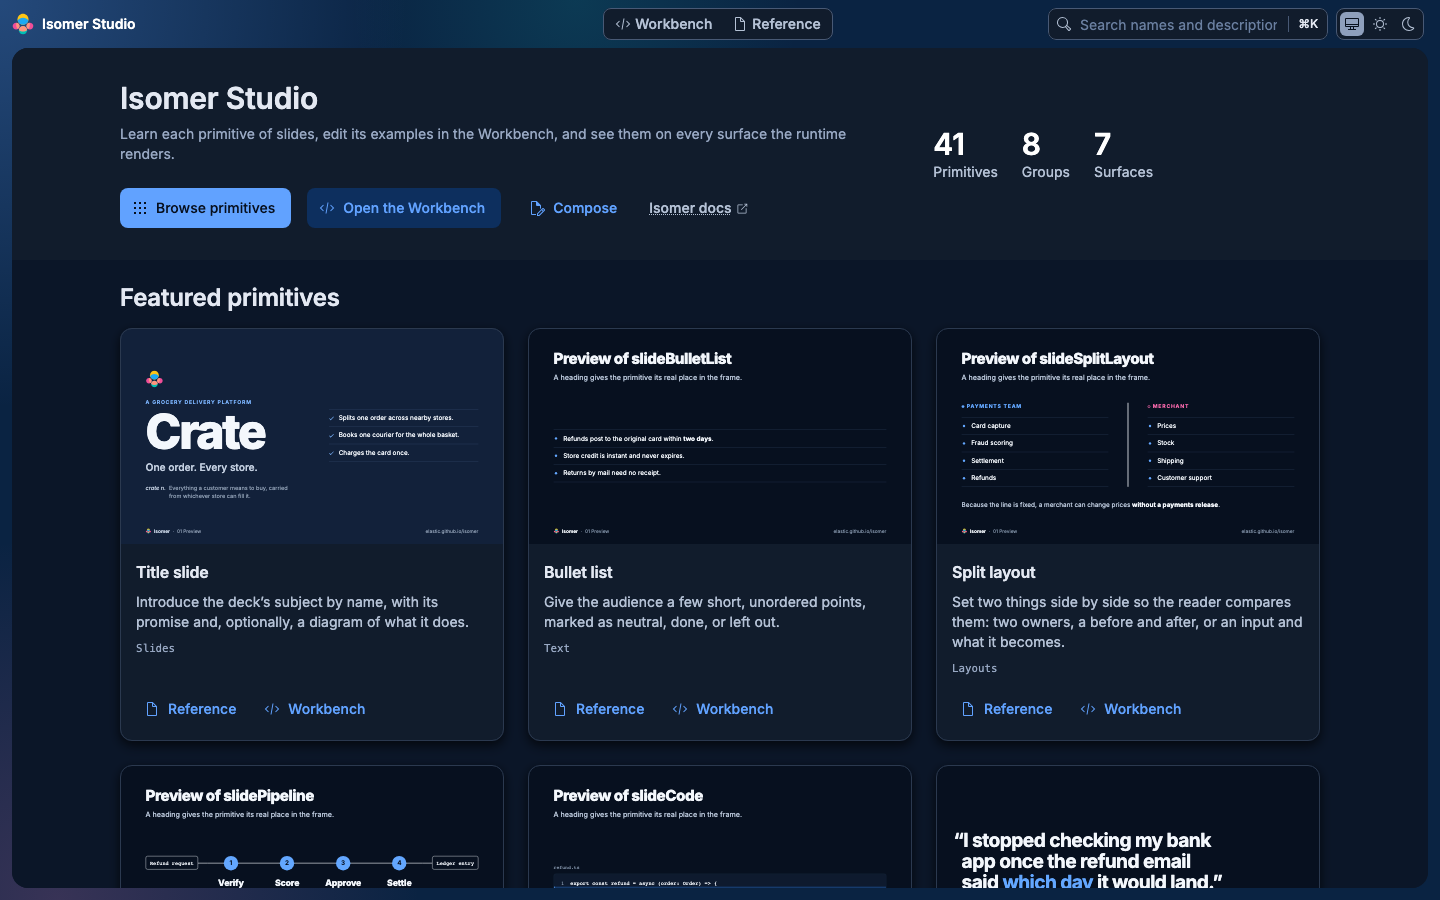
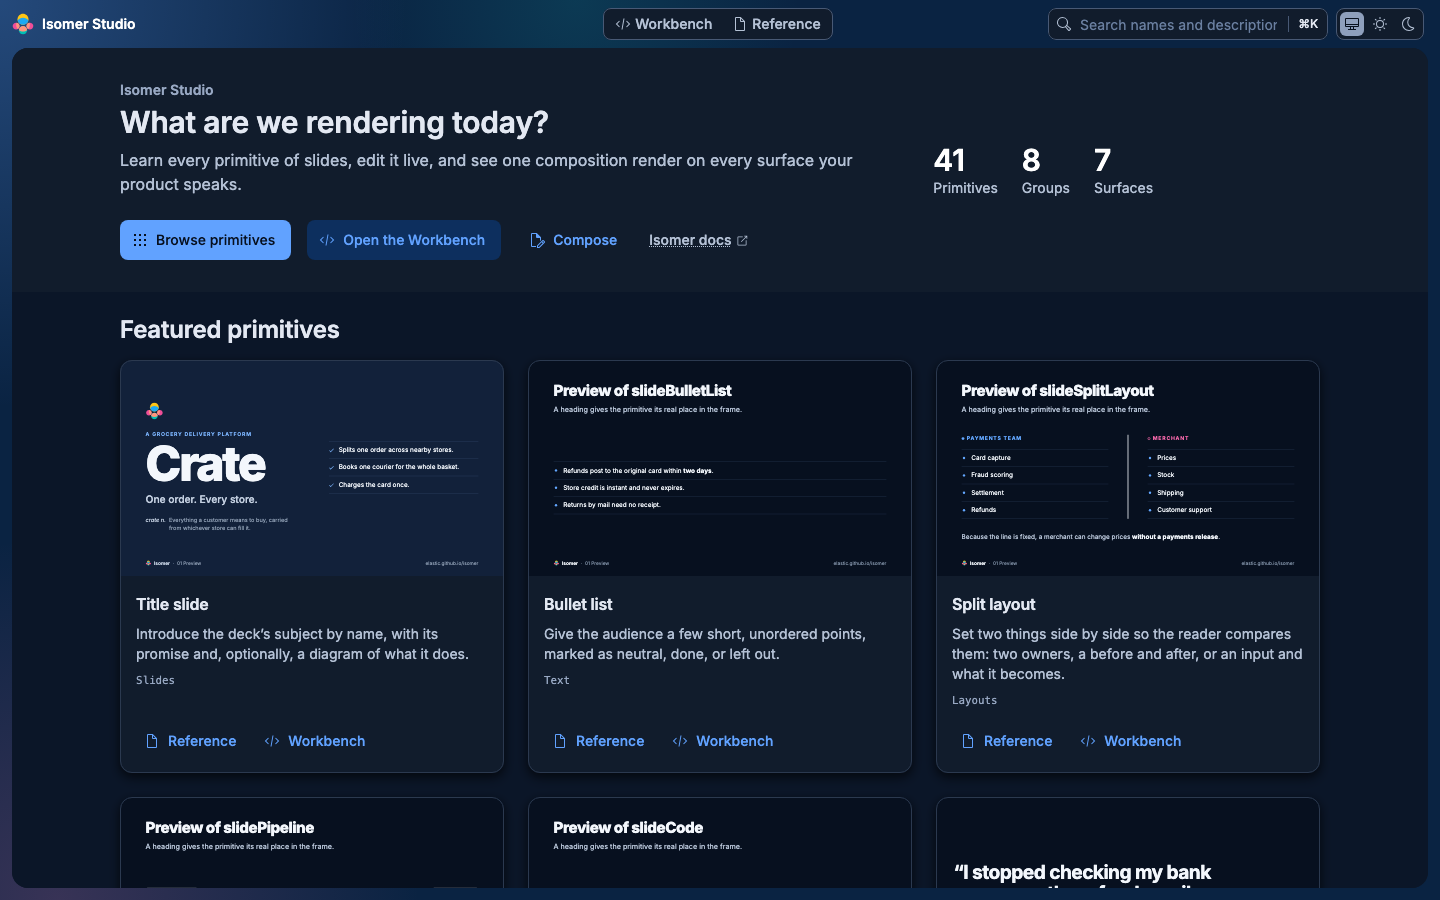
feat(studio): lead Home with its purpose and show one composition on every surface
Home's hero now asks "What are we rendering today?" under the config title, with a one-line value.
A new "Author once, render anywhere" section follows the featured primitives.
It explains one composition on every surface and what hosts and Isomer each own.
Beside it is one EUI card per surface the loaded runtime renders, from the surface catalog.
The Loaded section drops its surfaces panel, which the new section replaces.

diff --git a/packages/isomer-studio/src/home/home_view.tsx b/packages/isomer-studio/src/home/home_view.tsx
@@ -200,14 +200,18 @@ export const HomeView = ({ title }: { title: string }) => {
       <EuiPageSection restrictWidth={WIDTH} paddingSize="xl">
         <EuiFlexGroup gutterSize="xl" alignItems="center" wrap>
           <EuiFlexItem grow={2} css={heroCopy}>
+            <EuiText size="s" color="subdued">
+              <strong>{title}</strong>
+            </EuiText>
+            <EuiSpacer size="xs" />
             <EuiTitle size="l">
-              <h1>{title}</h1>
+              <h1>What are we rendering today?</h1>
             </EuiTitle>
             <EuiSpacer size="s" />
-            <EuiText color="subdued">
+            <EuiText size="m">
               <p>
-                Learn each primitive of {packNames}, edit its examples in the
-                Workbench, and see them on every surface the runtime renders.
+                Learn every primitive of {packNames}, edit it live, and see one
+                composition render on every surface your product speaks.
               </p>
             </EuiText>
             <EuiSpacer size="l" />
@@ -282,6 +286,48 @@ export const HomeView = ({ title }: { title: string }) => {
 
       <EuiPageSection
         restrictWidth={WIDTH}
+        aria-labelledby="isomer-studio-surfaces">
+        <EuiFlexGroup gutterSize="xl" wrap>
+          <EuiFlexItem grow={1} css={heroCopy}>
+            <EuiTitle size="m">
+              <h2 id="isomer-studio-surfaces">Author once, render anywhere</h2>
+            </EuiTitle>
+            <EuiSpacer size="s" />
+            <EuiText color="subdued">
+              <p>
+                Isomer turns one typed composition into every surface your
+                product speaks. These are the ones this runtime renders.
+              </p>
+              <p>
+                Hosts keep their data, authorization and routing. Isomer owns
+                the contract, the primitive catalog, validation and rendering.
+              </p>
+            </EuiText>
+          </EuiFlexItem>
+          <EuiFlexItem grow={2}>
+            <EuiFlexGrid columns={4} gutterSize="m">
+              {surfaces.map((surface) => (
+                <EuiCard
+                  key={surface}
+                  data-testid="home-surface"
+                  css={cardStyles}
+                  layout="vertical"
+                  paddingSize="s"
+                  titleElement="h3"
+                  titleSize="xs"
+                  icon={<EuiIcon type={SURFACE_ICONS[surface]} size="xl" />}
+                  title={SURFACE_CATALOG[surface].label}
+                  description={SURFACE_CATALOG[surface].note}
+                />
+              ))}
+            </EuiFlexGrid>
+          </EuiFlexItem>
+        </EuiFlexGroup>
+      </EuiPageSection>
+
+      <EuiPageSection
+        restrictWidth={WIDTH}
+        color="subdued"
         aria-labelledby="isomer-studio-loaded">
         <EuiTitle size="m">
           <h2 id="isomer-studio-loaded">Loaded in this Studio</h2>
@@ -297,7 +343,7 @@ export const HomeView = ({ title }: { title: string }) => {
           </p>
         </EuiText>
         <EuiSpacer />
-        <EuiFlexGrid columns={2} gutterSize="l">
+        <EuiFlexGrid columns={3} gutterSize="l">
           <Loaded title="Primitive packs" count={packs.length}>
             <EuiDescriptionList
               compressed
@@ -361,21 +407,6 @@ export const HomeView = ({ title }: { title: string }) => {
                 on <code>runtime.viewRegistry</code>.
               </Missing>
             )}
-          </Loaded>
-          <Loaded title="Surfaces" count={surfaces.length}>
-            <EuiDescriptionList
-              compressed
-              type="responsiveColumn"
-              listItems={surfaces.map((surface) => ({
-                title: (
-                  <>
-                    <EuiIcon type={SURFACE_ICONS[surface]} />{' '}
-                    {SURFACE_CATALOG[surface].label}
-                  </>
-                ),
-                description: SURFACE_CATALOG[surface].note,
-              }))}
-            />
           </Loaded>
         </EuiFlexGrid>
       </EuiPageSection>

diff --git a/packages/isomer-studio/src/home/home_view.test.tsx b/packages/isomer-studio/src/home/home_view.test.tsx
@@ -83,13 +83,17 @@ const featuredCards = () =>
   within(region('Featured primitives')).getAllByTestId('featured-primitive');
 
 describe('HomeView', () => {
-  it('leads with the title and links to the gallery, the Workbench, the composer and the docs', () => {
+  it('leads with what the Studio is for, names it, and links to the gallery, the Workbench, the composer and the docs', () => {
     renderHome();
     expect(
-      screen.getByRole('heading', { level: 1, name: 'Isomer Studio' })
+      screen.getByRole('heading', {
+        level: 1,
+        name: 'What are we rendering today?',
+      })
     ).toBeInTheDocument();
+    expect(screen.getByText('Isomer Studio')).toBeVisible();
     expect(
-      screen.getByText(/Learn each primitive of components/)
+      screen.getByText(/Learn every primitive of components/)
     ).toBeVisible();
     expect(
       screen.getByRole('link', { name: 'Browse primitives' })
@@ -167,14 +171,21 @@ describe('HomeView', () => {
     expect(views).toHaveTextContent('Every service and how it is doing.');
   });
 
-  it('lists the packs and surfaces the runtime loaded', () => {
+  it('lists the packs the runtime loaded', () => {
     renderHome();
     const packs = region('Primitive packs');
     expect(packs).toHaveTextContent('components');
     expect(packs).toHaveTextContent('4 primitives · 2 groups');
-    const surfaces = region('Surfaces');
-    expect(surfaces).toHaveTextContent('React');
-    expect(surfaces).toHaveTextContent('Plain text with no markup.');
-    expect(surfaces).not.toHaveTextContent('Snapshot');
+  });
+
+  it('shows one tile per surface the runtime renders', () => {
+    renderHome();
+    const strip = region('Author once, render anywhere');
+    expect(
+      within(strip)
+        .getAllByTestId('home-surface')
+        .map((tile) => within(tile).getByRole('heading').textContent)
+    ).toEqual(['React', 'HTML', 'Slack', 'Markdown', 'Text']);
+    expect(strip).toHaveTextContent('Plain text with no markup.');
   });
 });

diff --git a/packages/isomer-studio/e2e/studio.spec.ts b/packages/isomer-studio/e2e/studio.spec.ts
@@ -917,7 +917,12 @@ test.describe('static build', () => {
     const problems = watchProblems(page);
     await page.goto(site.url);
     const home = page.getByTestId('home');
-    await expect(home.getByRole('heading', { level: 1 })).toBeVisible();
+    await expect(
+      home.getByRole('heading', {
+        level: 1,
+        name: 'What are we rendering today?',
+      })
+    ).toBeVisible();
 
     await home.getByRole('link', { name: 'Browse primitives' }).click();
     await expect(page).toHaveURL(/#\/docs\/gallery$/);
@@ -968,7 +973,22 @@ test.describe('static build', () => {
     await expectMonacoReady(page);
   });
 
-  test('summarizes the packs, apps, views and surfaces the config loaded', async ({
+  test('shows a tile for each surface the runtime renders', async ({
+    page,
+  }) => {
+    await page.goto(`${site.url}#/home`);
+    const home = page.getByTestId('home');
+    const tiles = home
+      .getByRole('region', { name: 'Author once, render anywhere' })
+      .getByTestId('home-surface');
+    const labels = await tiles.getByRole('heading').allInnerTexts();
+    expect(labels).toEqual(
+      expect.arrayContaining(['React', 'HTML', 'Slack', 'Markdown', 'Text'])
+    );
+    expect(new Set(labels).size).toBe(labels.length);
+  });
+
+  test('summarizes the packs, apps and views the config loaded', async ({
     page,
   }) => {
     await page.goto(`${site.url}#/home`);
@@ -984,11 +1004,6 @@ test.describe('static build', () => {
     const views = home.getByRole('region', { name: 'Views' });
     await expect(
       views.getByText('No views registered').or(views.locator('dt').first())
-    ).toBeVisible();
-    await expect(
-      home.getByRole('region', { name: 'Surfaces' }).getByText('React', {
-        exact: true,
-      })
     ).toBeVisible();
   });
 

diff --git a/packages/isomer-studio/src/studio_navigation.test.tsx b/packages/isomer-studio/src/studio_navigation.test.tsx
@@ -47,7 +47,10 @@ describe('IsomerStudio', () => {
     render(<IsomerStudio {...{ runtime }} />);
     const home = await screen.findByTestId('home');
     expect(
-      within(home).getByRole('heading', { level: 1, name: 'Isomer Studio' })
+      within(home).getByRole('heading', {
+        level: 1,
+        name: 'What are we rendering today?',
+      })
     ).toBeInTheDocument();
     expect(screen.getByRole('main')).toContainElement(home);
     expect(

diff --git a/docs/studio/index.md b/docs/studio/index.md
@@ -7,7 +7,7 @@ description: A gallery, per-primitive Reference, a composition Workbench and a p
 
 `@elastic/isomer-studio` is a learning and testing shell for any Isomer pack. Run it in a pack's package directory, and it shows:
 
-- a Home page with where to start, featured primitives with live previews, and what the runtime loaded;
+- a Home page with what the Studio is for, where to start, featured primitives with live previews, the surfaces the runtime renders, and what it loaded;
 - a gallery of every primitive, grouped as the pack's authoring groups are, whose React previews mount as they near the viewport;
 - a Reference page per primitive, with its purpose, guidance, props and live examples to teach its use;
 - a Workbench for editing a composition and seeing its live preview;
@@ -52,11 +52,11 @@ That is enough for a pack whose primitives render inside a plain `view`. A pack 
 
 ## The app
 
-![Home: the hero, featured primitives with live previews, and what the config loaded](images/home.png)
+![Home: the hero, featured primitives with live previews, the surfaces, and what the config loaded](images/home.png)
 
 ![The Reference page for the slides pack's pipeline primitive](images/reference.png)
 
-- **Home.** An empty or unknown hash, `#/home`, and the mark in the header open Home, in the main panel without the primitive nav and in the current color mode. It leads with the config's title, what the Studio is for, a count of primitives, groups and surfaces, and links to the gallery, the Workbench, the composition editor and the Isomer documentation. Below are the featured primitives (the config's `featured`, or six drawn at random), each with a live preview of its first example and links to its Reference page and the Workbench, then what the config loaded: packs, apps, views and surfaces. With no apps or no views, that section says how to add them and links to the documentation. The header's search finds any primitive from Home, as from every page.
+- **Home.** An empty or unknown hash, `#/home`, and the mark in the header open Home, in the main panel without the primitive nav and in the current color mode. It leads with the config's title, the question the Studio answers, what it is for, a count of primitives, groups and surfaces, and links to the gallery, the Workbench, the composition editor and the Isomer documentation. Below are the featured primitives (the config's `featured`, or six drawn at random), each with a live preview of its first example and links to its Reference page and the Workbench; then one composition, every surface: a tile for each surface the runtime renders, with what it is; then what the config loaded: packs, apps and views. With no apps or no views, that section says how to add them and links to the documentation. The header's search finds any primitive from Home, as from every page.
 - **Navigation.** With one pack, the sidebar lists primitives under that pack's authoring groups, in the pack's group order and alphabetically within each group. With more than one pack, each pack is a heading and its groups follow. Primitives no group claims are listed last, under Uncategorized. Each group collapses, the browser remembers which are closed, and a filter opens every group it matches. Resting the pointer on a name shows its first example and purpose.
 - **Surfaces.** The Workbench preview starts with every output selected, in one column at every width. The Outputs menu checks the outputs to compare: with every output selected, choosing one shows it at full size, and choosing another adds it. Rendered or Output source applies to every card at once. The Reference example card starts on the first surface, with the example picker on the left and the same menu on the right. Its view selector switches among Rendered, Output source, and Example source; the latter shows the example as JSX or JSON.
 - **Zoom.** With one surface picked, the preview's zoom menu scales the React, HTML, Snapshot and PNG previews: Fit width shrinks a preview to the panel's width and never enlarges it, and fixed levels run from 50% to 200%.

diff --git a/packages/isomer-studio/docs/index.md b/packages/isomer-studio/docs/index.md
@@ -7,7 +7,7 @@ description: A gallery, per-primitive Reference, a composition Workbench and a p
 
 `@elastic/isomer-studio` is a learning and testing shell for any Isomer pack. Run it in a pack's package directory, and it shows:
 
-- a Home page with where to start, featured primitives with live previews, and what the runtime loaded;
+- a Home page with what the Studio is for, where to start, featured primitives with live previews, the surfaces the runtime renders, and what it loaded;
 - a gallery of every primitive, grouped as the pack's authoring groups are, whose React previews mount as they near the viewport;
 - a Reference page per primitive, with its purpose, guidance, props and live examples to teach its use;
 - a Workbench for editing a composition and seeing its live preview;
@@ -52,11 +52,11 @@ That is enough for a pack whose primitives render inside a plain `view`. A pack 
 
 ## The app
 
-![Home: the hero, featured primitives with live previews, and what the config loaded](images/home.png)
+![Home: the hero, featured primitives with live previews, the surfaces, and what the config loaded](images/home.png)
 
 ![The Reference page for the slides pack's pipeline primitive](images/reference.png)
 
-- **Home.** An empty or unknown hash, `#/home`, and the mark in the header open Home, in the main panel without the primitive nav and in the current color mode. It leads with the config's title, what the Studio is for, a count of primitives, groups and surfaces, and links to the gallery, the Workbench, the composition editor and the Isomer documentation. Below are the featured primitives (the config's `featured`, or six drawn at random), each with a live preview of its first example and links to its Reference page and the Workbench, then what the config loaded: packs, apps, views and surfaces. With no apps or no views, that section says how to add them and links to the documentation. The header's search finds any primitive from Home, as from every page.
+- **Home.** An empty or unknown hash, `#/home`, and the mark in the header open Home, in the main panel without the primitive nav and in the current color mode. It leads with the config's title, the question the Studio answers, what it is for, a count of primitives, groups and surfaces, and links to the gallery, the Workbench, the composition editor and the Isomer documentation. Below are the featured primitives (the config's `featured`, or six drawn at random), each with a live preview of its first example and links to its Reference page and the Workbench; then one composition, every surface: a tile for each surface the runtime renders, with what it is; then what the config loaded: packs, apps and views. With no apps or no views, that section says how to add them and links to the documentation. The header's search finds any primitive from Home, as from every page.
 - **Navigation.** With one pack, the sidebar lists primitives under that pack's authoring groups, in the pack's group order and alphabetically within each group. With more than one pack, each pack is a heading and its groups follow. Primitives no group claims are listed last, under Uncategorized. Each group collapses, the browser remembers which are closed, and a filter opens every group it matches. Resting the pointer on a name shows its first example and purpose.
 - **Surfaces.** The Workbench preview starts with every output selected, in one column at every width. The Outputs menu checks the outputs to compare: with every output selected, choosing one shows it at full size, and choosing another adds it. Rendered or Output source applies to every card at once. The Reference example card starts on the first surface, with the example picker on the left and the same menu on the right. Its view selector switches among Rendered, Output source, and Example source; the latter shows the example as JSX or JSON.
 - **Zoom.** With one surface picked, the preview's zoom menu scales the React, HTML, Snapshot and PNG previews: Fit width shrinks a preview to the panel's width and never enlarges it, and fixed levels run from 50% to 200%.

diff --git a/packages/isomer-studio/README.md b/packages/isomer-studio/README.md
@@ -51,9 +51,9 @@ To pin a version and type-check the config, install it: `npm install --save-dev 
 
 ## What it shows
 
-**Home** says what the Studio is for, links to the gallery, the Workbench, the composition editor and the docs, features a few primitives with live previews, and lists what the config loaded: packs, apps, views and surfaces.
+**Home** says what the Studio is for, links to the gallery, the Workbench, the composition editor and the docs, features a few primitives with live previews, shows a tile for each surface the runtime renders, and lists what the config loaded: packs, apps and views.
 
-![Home: the hero, featured primitives with live previews, and what the config loaded](https://raw.githubusercontent.com/elastic/isomer/main/packages/isomer-studio/docs/images/home.png)
+![Home: the hero, featured primitives with live previews, the surfaces, and what the config loaded](https://raw.githubusercontent.com/elastic/isomer/main/packages/isomer-studio/docs/images/home.png)
 
 **Reference** teaches each primitive: its purpose, live examples on every surface, when to use it, and its props.
 
